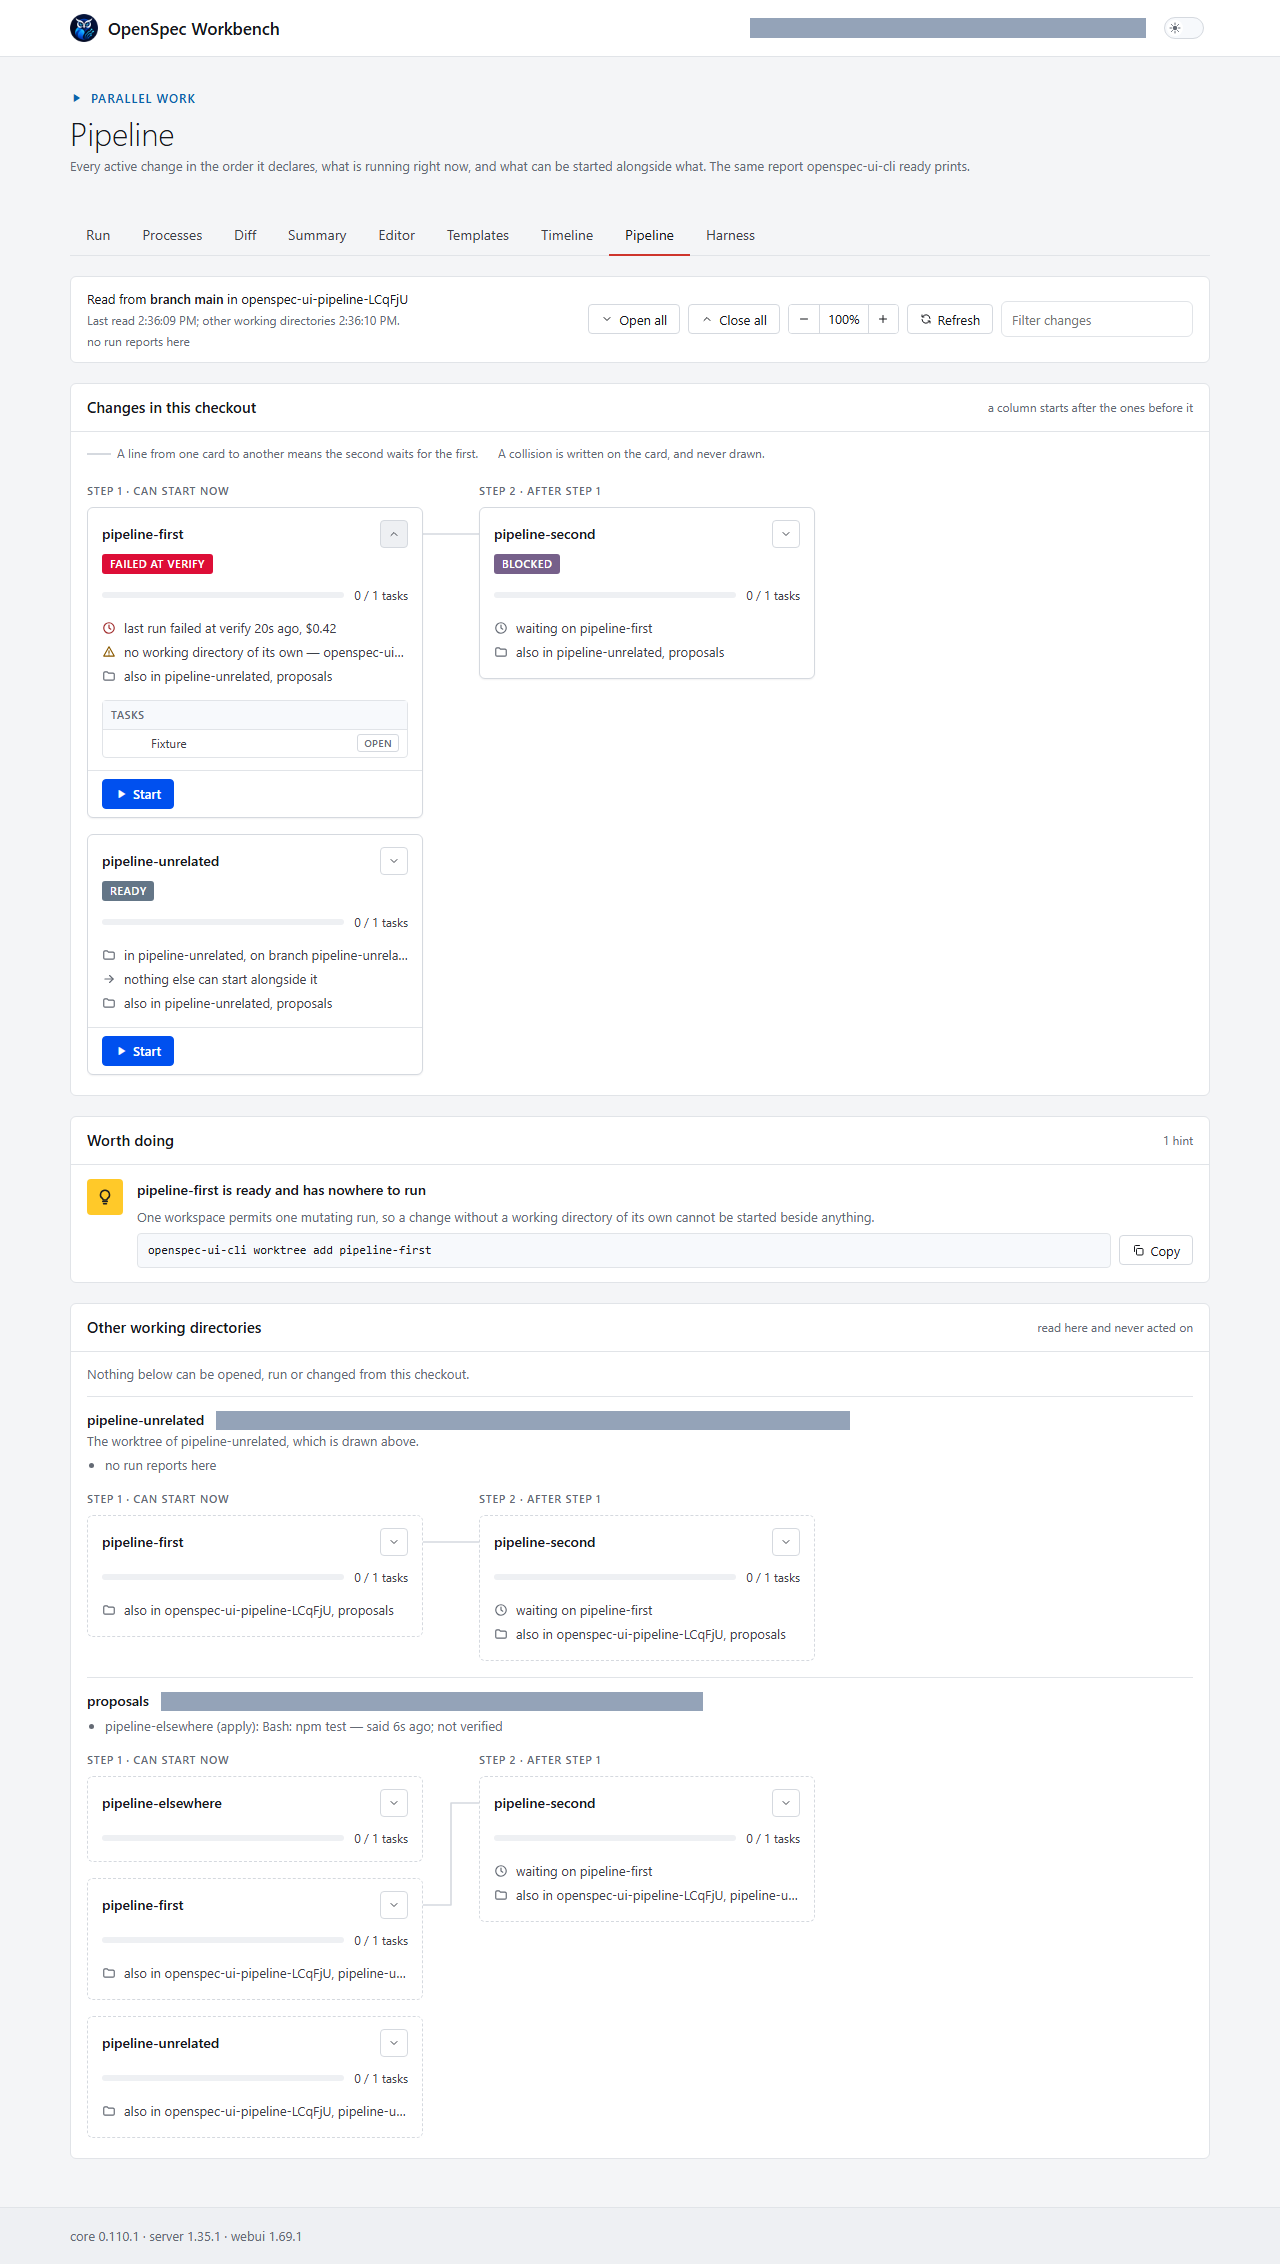
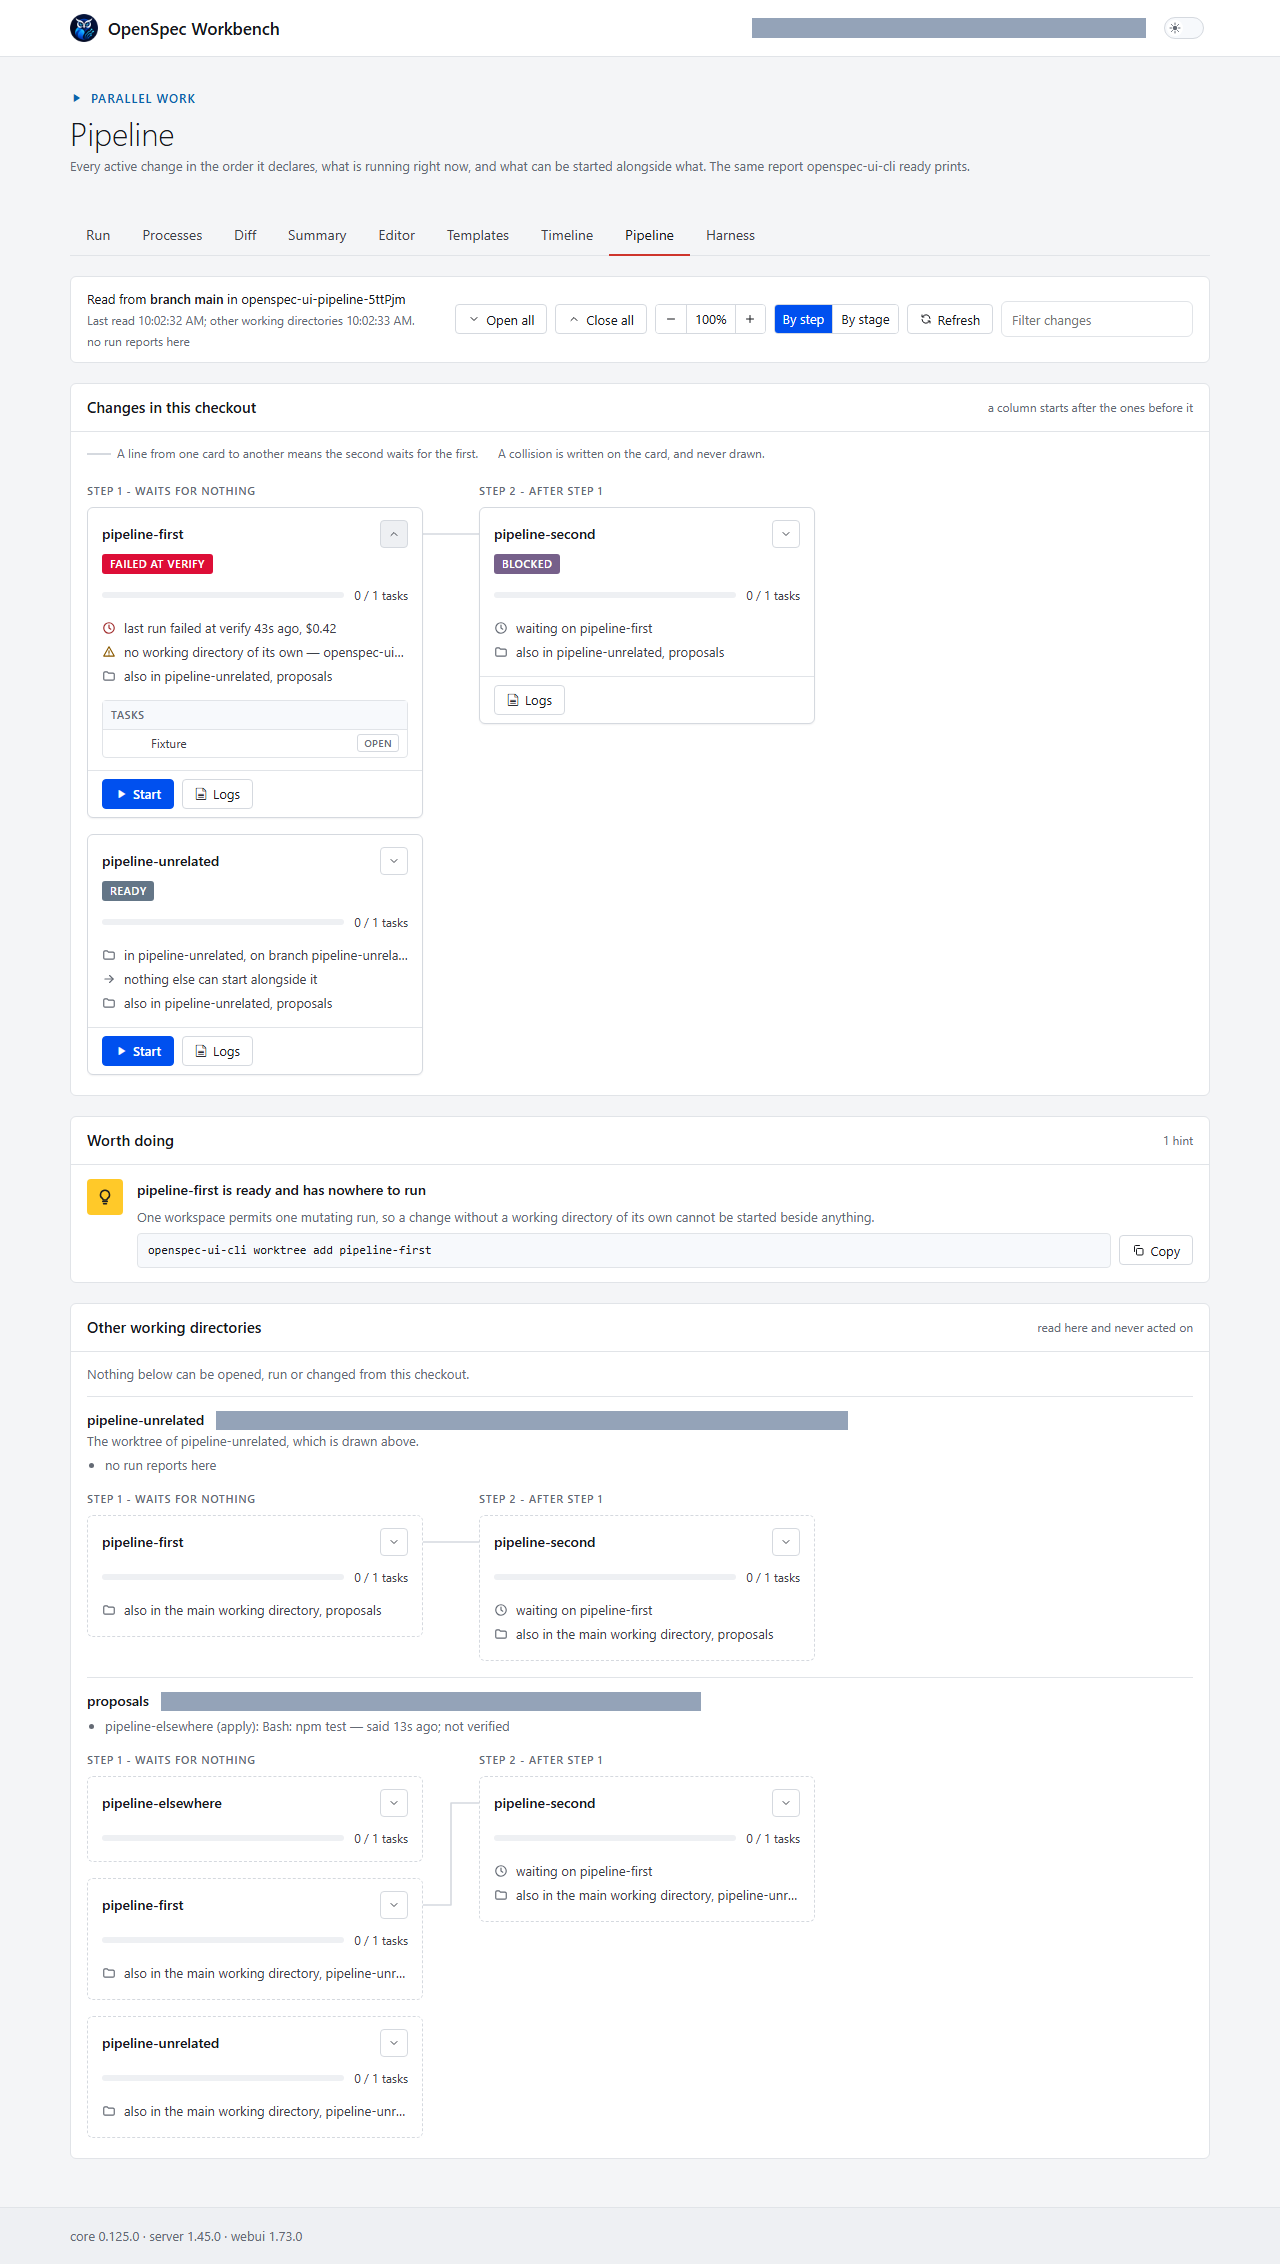
a-column-says-what-it-means (#755)
Reported by the owner: a change with 13 of 13 tasks done sat under the
heading "Step 1 - can start now". What is there to start?

Nothing, and the column never meant there was: it holds the changes that
nothing active blocks. "Can start now" named an invitation instead of a
place, true only of a change nobody has started. The first column is now
headed "Step 1 - waits for nothing", the legend's own word, and the
others "Step N - after step N-1". The separator becomes a plain hyphen.

The standalone's three Pipeline pictures that show the heading are
regenerated by the browser suite.

diff --git a/packages/server/e2e/pipeline.spec.ts b/packages/server/e2e/pipeline.spec.ts
@@ -596,7 +596,7 @@ test("becomes headed lanes at phone width, with no lines", async ({ page }) => {
   await expect(page.getByTestId("pipeline-edges")).toBeHidden();
   // Scoped to this directory's picture: every other working directory's
   // picture has a first step of its own.
-  await expect(page.getByTestId("pipeline-picture").getByRole("heading", { name: "Step 1 · can start now" })).toBeVisible();
+  await expect(page.getByTestId("pipeline-picture").getByRole("heading", { name: "Step 1 - waits for nothing" })).toBeVisible();
 
   // a-card-opens-to-its-tasks 3.7: an open card lists its rows in its
   // lane, with no fixed height, so none of them is cut.

diff --git a/packages/core/src/change-layout.test.ts b/packages/core/src/change-layout.test.ts
@@ -166,7 +166,7 @@ describe("layoutChanges", () => {
 
   // the-pipeline-cards-wear-metro 1.2: each column is headed, above its cards.
   it("heads each column by its place in the order, in the strip above the cards", () => {
-    expect([0, 1, 2].map(describeLane)).toEqual(["Step 1 · can start now", "Step 2 · after step 1", "Step 3 · after step 2"]);
+    expect([0, 1, 2].map(describeLane)).toEqual(["Step 1 - waits for nothing", "Step 2 - after step 1", "Step 3 - after step 2"]);
     const layout = layoutChanges(report(change("only")));
     expect(Math.min(...layout.nodes.map((node) => node.y))).toBe(LANE_HEADING);
   });

diff --git a/packages/core/src/change-layout.ts b/packages/core/src/change-layout.ts
@@ -39,7 +39,7 @@ export const LANE_HEADING = 2;
  * order, not stages. The board arranges by stage instead, and heads its
  * columns with the stages' own words (`layoutChangesByStage`). */
 export function describeLane(column: number): string {
-  return column === 0 ? "Step 1 · can start now" : `Step ${column + 1} · after step ${column}`;
+  return column === 0 ? "Step 1 - waits for nothing" : `Step ${column + 1} - after step ${column}`;
 }
 
 export interface ChangeLayoutNode {

diff --git a/openspec/changes/a-column-says-what-it-means/proposal.md b/openspec/changes/a-column-says-what-it-means/proposal.md
@@ -1,0 +1,45 @@
+## Why
+
+Reported by the owner on 2026-09-23: in the Pipeline, a change with 13 of
+13 tasks done sits under the heading "Step 1 - can start now" (drawn with a middle dot then). What is
+there to start?
+
+Nothing, and the heading never meant there was. The first column holds
+the changes that nothing active blocks - its place in the declared order.
+"Can start now" names an invitation instead of a place, and is true only
+of a change nobody has started. For one that is running, done, or failed,
+it reads as advice to start it again.
+
+## What Changes
+
+- The first column is headed "Step 1 - waits for nothing", the others
+  "Step N - after step N-1": the separator becomes a plain hyphen, as
+  every word this product writes is plain ASCII. Both words say where a change stands in the
+  order, which is true of any change in the column whatever it is doing.
+- "Waits for" is the legend's own word: a line between two cards means
+  the second waits for the first.
+
+## Capabilities
+
+### New Capabilities
+
+(none)
+
+### Modified Capabilities
+
+- `shared-ui` - how the first column of the picture is headed.
+
+## Impact
+
+- `packages/core/src/change-layout.ts` (`describeLane`) and its test.
+- `packages/server/e2e/pipeline.spec.ts`: the heading it looks for.
+- The standalone's Pipeline pictures under `docs/images/standalone/`,
+  regenerated by the browser suite, since the heading is in them.
+- One scenario in `openspec/specs/shared-ui/spec.md`.
+
+## Explicitly out of scope
+
+- **The arrangement by stage.** The board heads its columns with the
+  stages' own words; nothing there invites a start.
+- **`openspec-ui-cli ready`.** It answers what can start now, and that is
+  what it lists: changes nothing blocks and nobody has finished.

diff --git a/openspec/changes/a-column-says-what-it-means/specs/shared-ui/spec.md b/openspec/changes/a-column-says-what-it-means/specs/shared-ui/spec.md
@@ -1,0 +1,37 @@
+## MODIFIED Requirements
+
+### Requirement: A card's state, progress and next step stand out
+
+A card SHALL show its state word in a badge whose colour agrees with the
+word, and SHALL NOT convey the state by colour alone. It SHALL show how many
+of its change's tasks are done as a bar beside the count.
+
+A card's controls SHALL be told apart by what they do: the control that moves
+the change forward SHALL look different from a control that stops a run, and
+both from a control that only copies. A control's accessible name SHALL NOT
+change with its look.
+
+Each column of the picture SHALL be headed by its place in the order, in
+words true of every change in it whatever that change is doing: the first
+column waits for nothing, and each other comes after the one before it. A
+first column headed "can start now" read, over a change with every task
+done, as advice to start it again (reported on 2026-09-23).
+
+#### Scenario: A failed change beside a running one
+
+- **WHEN** one change's last run failed and another's run is working
+- **THEN** each card's badge carries its word, "Failed at verify" and
+  "Running", in different colours, and each bar shows its tasks done
+
+#### Scenario: A run waiting at a checkpoint on this host
+
+- **WHEN** a run this host started waits to continue to verify
+- **THEN** the card says so in a callout, "Continue to verify" is drawn as
+  the forward control, and Stop is drawn as a stopping control
+
+#### Scenario: Two columns
+
+- **WHEN** one change waits on another
+- **THEN** the first column is headed "Step 1 - waits for nothing", and the
+  second "Step 2 - after step 1"
+

diff --git a/openspec/changes/a-column-says-what-it-means/tasks.md b/openspec/changes/a-column-says-what-it-means/tasks.md
@@ -1,0 +1,29 @@
+Reported by the owner on 2026-09-23: a done change sits under "Step 1 - can
+start now" (drawn with a middle dot then).
+
+## 1. The heading
+
+- [x] 1.1 The first column is headed "Step 1 - waits for nothing"; the
+  others "Step N - after step N-1", with a plain hyphen.
+
+## 2. Checks
+
+- [x] 2.1 Tests: the three headings in core; the heading the browser
+  suite looks for.
+- [x] 2.2 Live against this repository: the picture's first column, over
+  a change that is done. 2026-09-24, the standalone built from this
+  worktree: the first column headed "STEP 1 - WAITS FOR NOTHING" (the
+  stylesheet sets headings in capitals) over two cards. Neither was done
+  at the time; the words no longer depend on what a card is doing.
+- [x] 2.3 `npm run typecheck && npm run lint && npm run test` at the root,
+  after `git add`, run unpiped, exit code 0. Typecheck 0, lint 0, test 0
+  (core 1894, server 493, extension 116, webui 665).
+- [x] 2.4 The extension's integration suite, and the whole standalone
+  browser suite; its regenerated Pipeline pictures kept. Integration: 19
+  passing, exit 0. Browser: 29 of 29, exit 0. Kept `pipeline.png`,
+  `pipeline-stop.png` and `pipeline-stop-ask.png`, the pictures that show
+  the heading; the other screens are not this change's.
+- [x] 2.5 `openspec validate a-column-says-what-it-means --strict`, and the
+  merge gate locally with `--base origin/main`. Validate: valid; the gate
+  exit 0.
+- [x] 2.6 A changeset: core, webui, the server and the extension, patch.

diff --git a/.changeset/a-column-says-what-it-means.md b/.changeset/a-column-says-what-it-means.md
@@ -1,0 +1,12 @@
+---
+"@openspec-ui/core": patch
+"@openspec-ui/webui": patch
+"@openspec-ui/server": patch
+"openspec-ui-vscode": patch
+---
+
+The Pipeline picture's first column is headed "Step 1 - waits for nothing"
+instead of "can start now". The old words read, over a change with every
+task done, as advice to start it again; the column only ever meant that
+nothing active blocks its changes. The other columns read "Step N - after
+step N-1", with a plain hyphen where a middle dot was.
